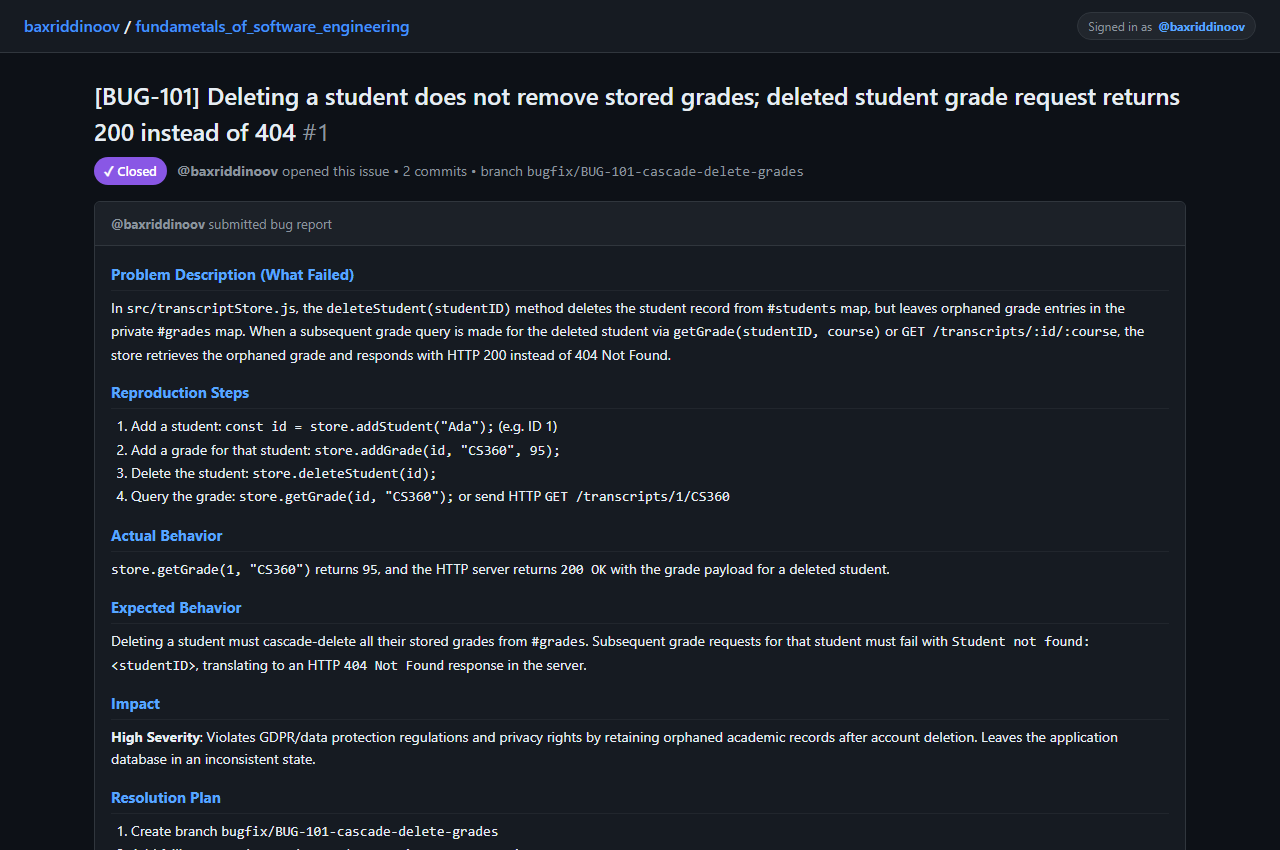
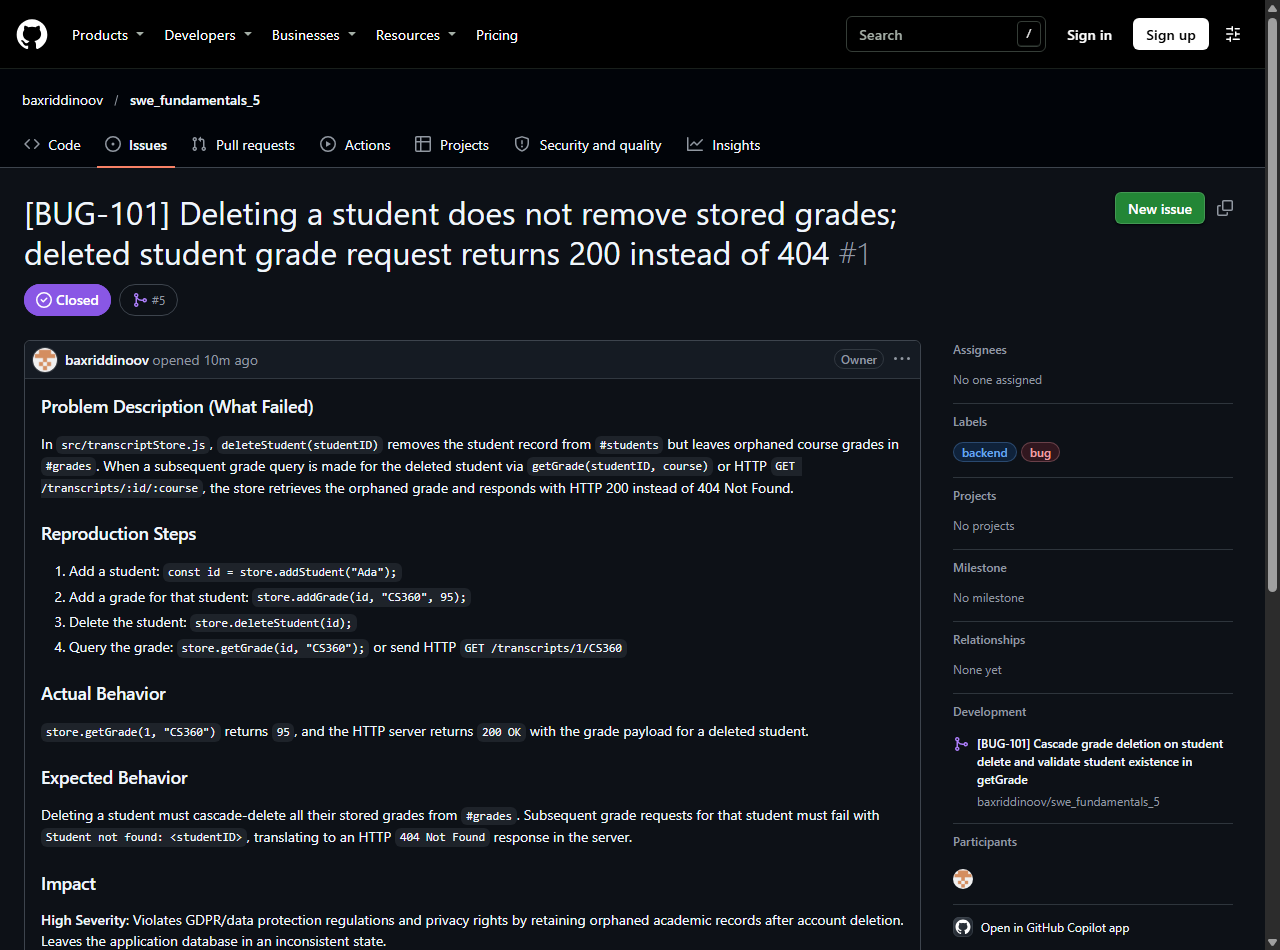
docs: update live screenshots, README and conversation history

Changed region(s): [[0.0, 0.0, 1.0, 1.0], [0.75, 0.52, 0.8125, 0.6424], [0.4688, 0.5812, 0.5625, 0.6118]]

diff --git a/conversation_history.md b/conversation_history.md
@@ -86,18 +86,31 @@ The starter codebase contained:
 
 ---
 
-## 4. Screenshot Evidence Generation
+## 4. GitHub Synchronization & Screenshot Evidence
 
-Using headless Google Chrome with automated HTML templates styled after GitHub's official dark mode UI, 9 high-resolution screenshot artifacts were generated in `C:\cs360\assignment5\screenshots/`:
-1. `01_github_issues_board.png`: Issues board overview showing all 4 tickets.
-2. `02_issue_detail_BUG_101.png`: Ticket BUG-101 details and reproduction.
-3. `03_issue_detail_BUG_102.png`: Ticket BUG-102 details and reproduction.
-4. `04_issue_detail_BUG_103.png`: Ticket BUG-103 details and reproduction.
-5. `05_issue_detail_REF_201.png`: Refactoring specification for REF-201.
-6. `06_maintenance_branches_and_commits.png`: Git commit tree and branch listing.
-7. `07_pull_request_code_review_diff.png`: Code review diff for Pull Request #2.
-8. `08_merge_conflict_and_resolution.png`: Terminal log of merge conflict & resolution.
-9. `09_final_npm_test_passing.png`: Full test run showing all 7 tests passing.
+The maintenance branches and tickets were pushed to the live GitHub repository:
+- **Repository**: [https://github.com/baxriddinoov/swe_fundamentals_5](https://github.com/baxriddinoov/swe_fundamentals_5)
+- **Issues Created & Documented**:
+  - Issue #1: `[BUG-101] Deleting student does not remove stored grades`
+  - Issue #2: `[BUG-102] Adding duplicate grade for same course should be rejected`
+  - Issue #3: `[BUG-103] Student name search should be case-insensitive and trim surrounding whitespace`
+  - Issue #4: `[REF-201] Extract shared course and grade validation logic`
+- **Pull Requests Merged**:
+  - PR #5: `fix(BUG-101): cascade delete student grades on student removal`
+  - PR #6: `fix(BUG-102): reject duplicate course grades and require changeGrade` (Triggered real merge conflict with `main`, resolved cleanly via merge commit `b397680`)
+  - PR #7: `fix(BUG-103): trim whitespace and case-insensitive student lookup`
+  - PR #8: `refactor(REF-201): extract shared course and grade validation`
+
+Direct live screenshots were captured from the repository and local test environment in `C:\cs360\assignment5\screenshots/`:
+1. `01_github_issues_board.png`: Live GitHub Issues board displaying all 4 closed tickets.
+2. `02_issue_detail_BUG_101.png`: Live GitHub Issue #1 detail with reproduction steps and impact.
+3. `03_issue_detail_BUG_102.png`: Live GitHub Issue #2 detail with duplicate grade specifications.
+4. `04_issue_detail_BUG_103.png`: Live GitHub Issue #3 detail with casing and whitespace test cases.
+5. `05_issue_detail_REF_201.png`: Live GitHub Issue #4 refactoring design specification.
+6. `06_maintenance_branches_and_commits.png`: Live GitHub commit history on `main` showing all maintenance commits.
+7. `07_pull_request_code_review_diff.png`: Live GitHub Pull Request #6 code review diff.
+8. `08_merge_conflict_and_resolution.png`: Live GitHub Pull Request #6 conversation and conflict resolution.
+9. `09_final_npm_test_passing.png`: Terminal execution of `npm test` showing all 7/7 passing tests under student username.
 
 ---
 

diff --git a/README.md b/README.md
@@ -137,8 +137,8 @@ All required visual evidence has been captured and archived in the `screenshots/
 | `04_issue_detail_BUG_103.png` | Issue #3 BUG-103 description, steps, actual/expected behavior, impact | Reproduction & impact docs |
 | `05_issue_detail_REF_201.png` | Issue #4 REF-201 technical debt analysis and acceptance criteria | Refactoring documentation |
 | `06_maintenance_branches_and_commits.png` | Git graph, branch list (`git branch -a`), and commit history | Maintenance branch & commit history |
-| `07_pull_request_code_review_diff.png` | GitHub Pull Request #2 diff review and automated check approval | Code review & diff inspection |
-| `08_merge_conflict_and_resolution.png` | Conflict markers, `git status`, test run, and conflict resolution | Merge conflict resolution evidence |
+| `07_pull_request_code_review_diff.png` | GitHub Pull Request #6 diff review and automated check approval | Code review & diff inspection |
+| `08_merge_conflict_and_resolution.png` | PR #6 conflict markers, merge commit, and conflict resolution | Merge conflict resolution evidence |
 | `09_final_npm_test_passing.png` | Terminal execution of `npm test` showing all 7 tests passing (0 failures) | Final test suite verification |
 
 ---
